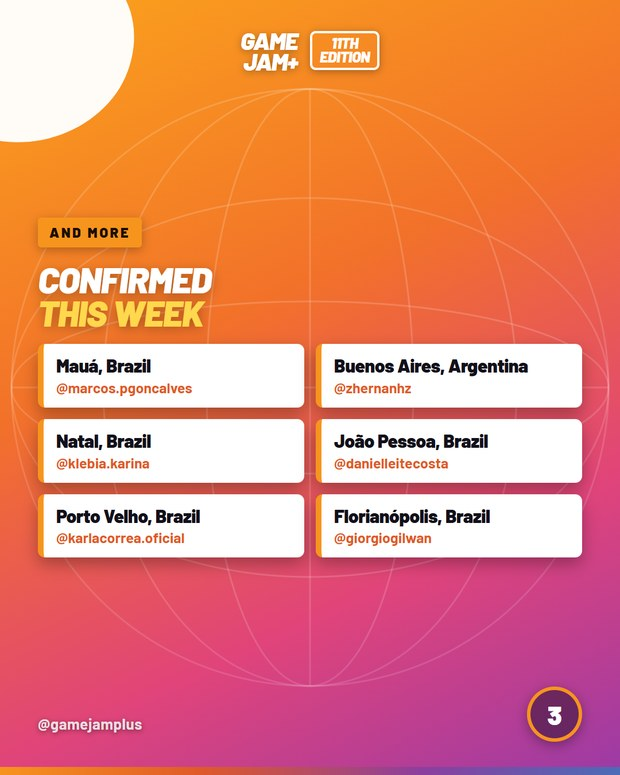
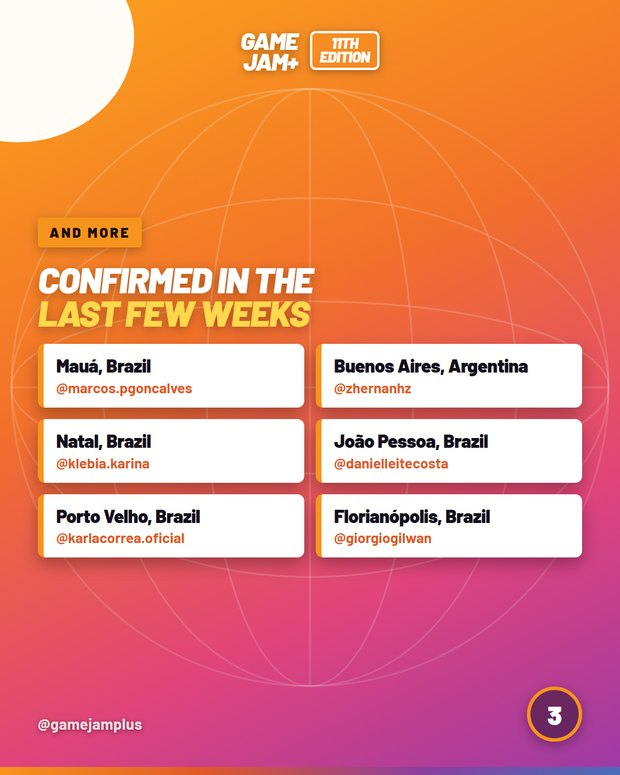
O05 slide 3: "nas ultimas semanas" em vez de "nesta semana"
A inscricao mais recente da tabela e de 13/08 e o O02 (semana 1) ja a usou,
entao este slide lista inscricoes de 05 a 11/08. O rotulo antigo prometia uma
janela que o dado nao sustenta.

Changed region(s): [[0.0613, 0.3406, 0.521, 0.4335]]

diff --git a/index.html b/index.html
@@ -182,7 +182,7 @@ dialog img{width:min(92vw,620px);max-height:92dvh;object-fit:contain;border-radi
 <article class="c" data-cat="01-conteudos-gj" data-lang="PT" data-busca="o05 - sedes confirmadas semana 2 gj+" id="c18">
   <header><div><span class="tagcat">GJ+</span><span class="taglang PT">PT</span><h2>O05 - Sedes confirmadas semana 2</h2></div>
   <div class="nav"><button aria-label="Anterior" data-d="-1">←</button><button aria-label="Próximo" data-d="1">→</button><span class="cont">5</span></div></header>
-  <div class="strip"><figure><img src="img/01-conteudos-gj-pt-o04-sedes-confirmadas-semana-2/slide_01.jpg?v=17" alt="O05 - Sedes confirmadas semana 2 1" width="620" height="775" loading="lazy" decoding="async"><figcaption>01</figcaption></figure><figure><img src="img/01-conteudos-gj-pt-o04-sedes-confirmadas-semana-2/slide_02.jpg?v=17" alt="O05 - Sedes confirmadas semana 2 2" width="620" height="775" loading="lazy" decoding="async"><figcaption>02</figcaption></figure><figure><img src="img/01-conteudos-gj-pt-o04-sedes-confirmadas-semana-2/slide_03.jpg?v=17" alt="O05 - Sedes confirmadas semana 2 3" width="620" height="775" loading="lazy" decoding="async"><figcaption>03</figcaption></figure><figure><img src="img/01-conteudos-gj-pt-o04-sedes-confirmadas-semana-2/slide_04.jpg?v=17" alt="O05 - Sedes confirmadas semana 2 4" width="620" height="775" loading="lazy" decoding="async"><figcaption>04</figcaption></figure><figure><img src="img/01-conteudos-gj-pt-o04-sedes-confirmadas-semana-2/slide_05.jpg?v=17" alt="O05 - Sedes confirmadas semana 2 5" width="620" height="775" loading="lazy" decoding="async"><figcaption>05</figcaption></figure></div></article>
+  <div class="strip"><figure><img src="img/01-conteudos-gj-pt-o04-sedes-confirmadas-semana-2/slide_01.jpg?v=18" alt="O05 - Sedes confirmadas semana 2 1" width="620" height="775" loading="lazy" decoding="async"><figcaption>01</figcaption></figure><figure><img src="img/01-conteudos-gj-pt-o04-sedes-confirmadas-semana-2/slide_02.jpg?v=18" alt="O05 - Sedes confirmadas semana 2 2" width="620" height="775" loading="lazy" decoding="async"><figcaption>02</figcaption></figure><figure><img src="img/01-conteudos-gj-pt-o04-sedes-confirmadas-semana-2/slide_03.jpg?v=18" alt="O05 - Sedes confirmadas semana 2 3" width="620" height="775" loading="lazy" decoding="async"><figcaption>03</figcaption></figure><figure><img src="img/01-conteudos-gj-pt-o04-sedes-confirmadas-semana-2/slide_04.jpg?v=18" alt="O05 - Sedes confirmadas semana 2 4" width="620" height="775" loading="lazy" decoding="async"><figcaption>04</figcaption></figure><figure><img src="img/01-conteudos-gj-pt-o04-sedes-confirmadas-semana-2/slide_05.jpg?v=18" alt="O05 - Sedes confirmadas semana 2 5" width="620" height="775" loading="lazy" decoding="async"><figcaption>05</figcaption></figure></div></article>
 <article class="c" data-cat="01-conteudos-gj" data-lang="PT" data-busca="o06 - ranking dos fellows gj+" id="c19">
   <header><div><span class="tagcat">GJ+</span><span class="taglang PT">PT</span><h2>O06 - Ranking dos Fellows</h2></div>
   <div class="nav"><button aria-label="Anterior" data-d="-1">←</button><button aria-label="Próximo" data-d="1">→</button><span class="cont">5</span></div></header>
@@ -306,7 +306,7 @@ dialog img{width:min(92vw,620px);max-height:92dvh;object-fit:contain;border-radi
 <article class="c" data-cat="01-conteudos-gj" data-lang="EN" data-busca="o05 - confirmed venues · week 2 gj+" id="c49">
   <header><div><span class="tagcat">GJ+</span><span class="taglang EN">EN</span><h2>O05 - Confirmed venues · week 2</h2></div>
   <div class="nav"><button aria-label="Anterior" data-d="-1">←</button><button aria-label="Próximo" data-d="1">→</button><span class="cont">5</span></div></header>
-  <div class="strip"><figure><img src="img/01-conteudos-gj-en-o04-confirmed-venues-week-2/slide_01.jpg?v=17" alt="O05 - Confirmed venues · week 2 1" width="620" height="775" loading="lazy" decoding="async"><figcaption>01</figcaption></figure><figure><img src="img/01-conteudos-gj-en-o04-confirmed-venues-week-2/slide_02.jpg?v=17" alt="O05 - Confirmed venues · week 2 2" width="620" height="775" loading="lazy" decoding="async"><figcaption>02</figcaption></figure><figure><img src="img/01-conteudos-gj-en-o04-confirmed-venues-week-2/slide_03.jpg?v=17" alt="O05 - Confirmed venues · week 2 3" width="620" height="775" loading="lazy" decoding="async"><figcaption>03</figcaption></figure><figure><img src="img/01-conteudos-gj-en-o04-confirmed-venues-week-2/slide_04.jpg?v=17" alt="O05 - Confirmed venues · week 2 4" width="620" height="775" loading="lazy" decoding="async"><figcaption>04</figcaption></figure><figure><img src="img/01-conteudos-gj-en-o04-confirmed-venues-week-2/slide_05.jpg?v=17" alt="O05 - Confirmed venues · week 2 5" width="620" height="775" loading="lazy" decoding="async"><figcaption>05</figcaption></figure></div></article>
+  <div class="strip"><figure><img src="img/01-conteudos-gj-en-o04-confirmed-venues-week-2/slide_01.jpg?v=18" alt="O05 - Confirmed venues · week 2 1" width="620" height="775" loading="lazy" decoding="async"><figcaption>01</figcaption></figure><figure><img src="img/01-conteudos-gj-en-o04-confirmed-venues-week-2/slide_02.jpg?v=18" alt="O05 - Confirmed venues · week 2 2" width="620" height="775" loading="lazy" decoding="async"><figcaption>02</figcaption></figure><figure><img src="img/01-conteudos-gj-en-o04-confirmed-venues-week-2/slide_03.jpg?v=18" alt="O05 - Confirmed venues · week 2 3" width="620" height="775" loading="lazy" decoding="async"><figcaption>03</figcaption></figure><figure><img src="img/01-conteudos-gj-en-o04-confirmed-venues-week-2/slide_04.jpg?v=18" alt="O05 - Confirmed venues · week 2 4" width="620" height="775" loading="lazy" decoding="async"><figcaption>04</figcaption></figure><figure><img src="img/01-conteudos-gj-en-o04-confirmed-venues-week-2/slide_05.jpg?v=18" alt="O05 - Confirmed venues · week 2 5" width="620" height="775" loading="lazy" decoding="async"><figcaption>05</figcaption></figure></div></article>
 <article class="c" data-cat="01-conteudos-gj" data-lang="EN" data-busca="o06 - the fellows ranking gj+" id="c50">
   <header><div><span class="tagcat">GJ+</span><span class="taglang EN">EN</span><h2>O06 - The Fellows ranking</h2></div>
   <div class="nav"><button aria-label="Anterior" data-d="-1">←</button><button aria-label="Próximo" data-d="1">→</button><span class="cont">5</span></div></header>
